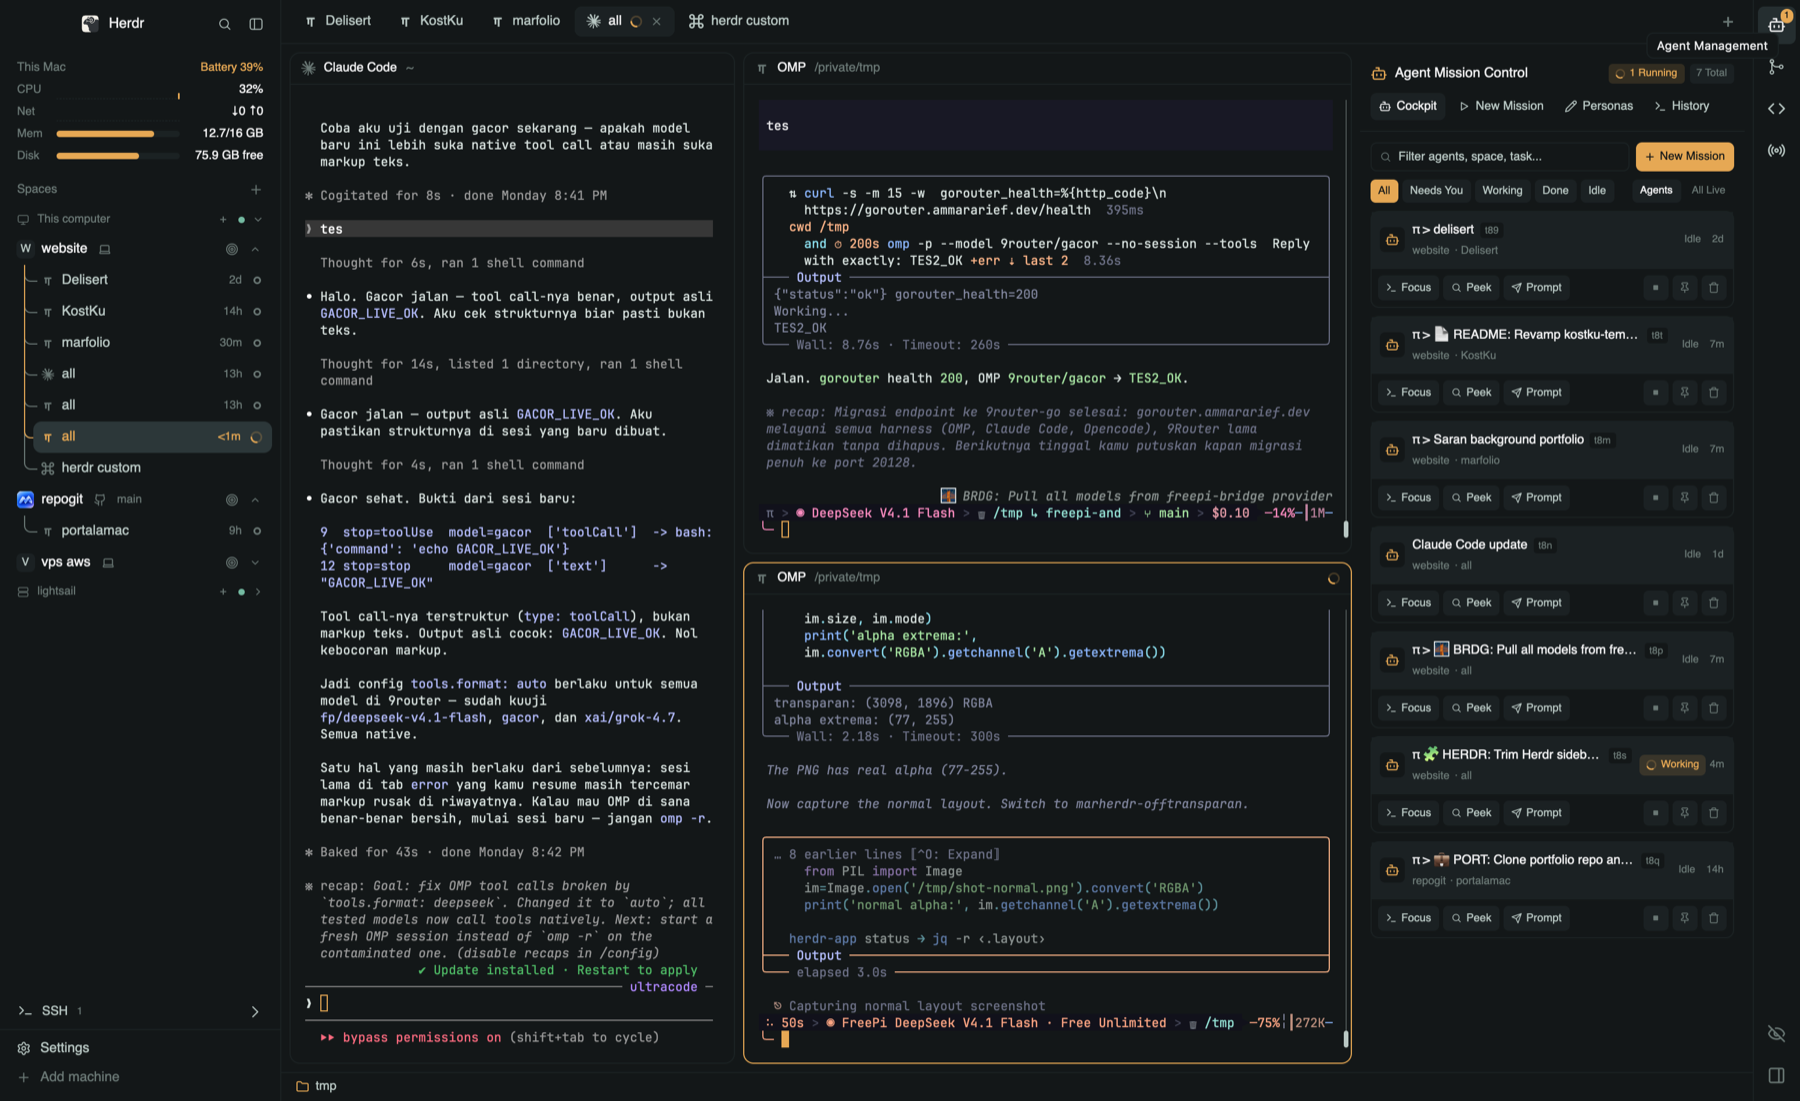
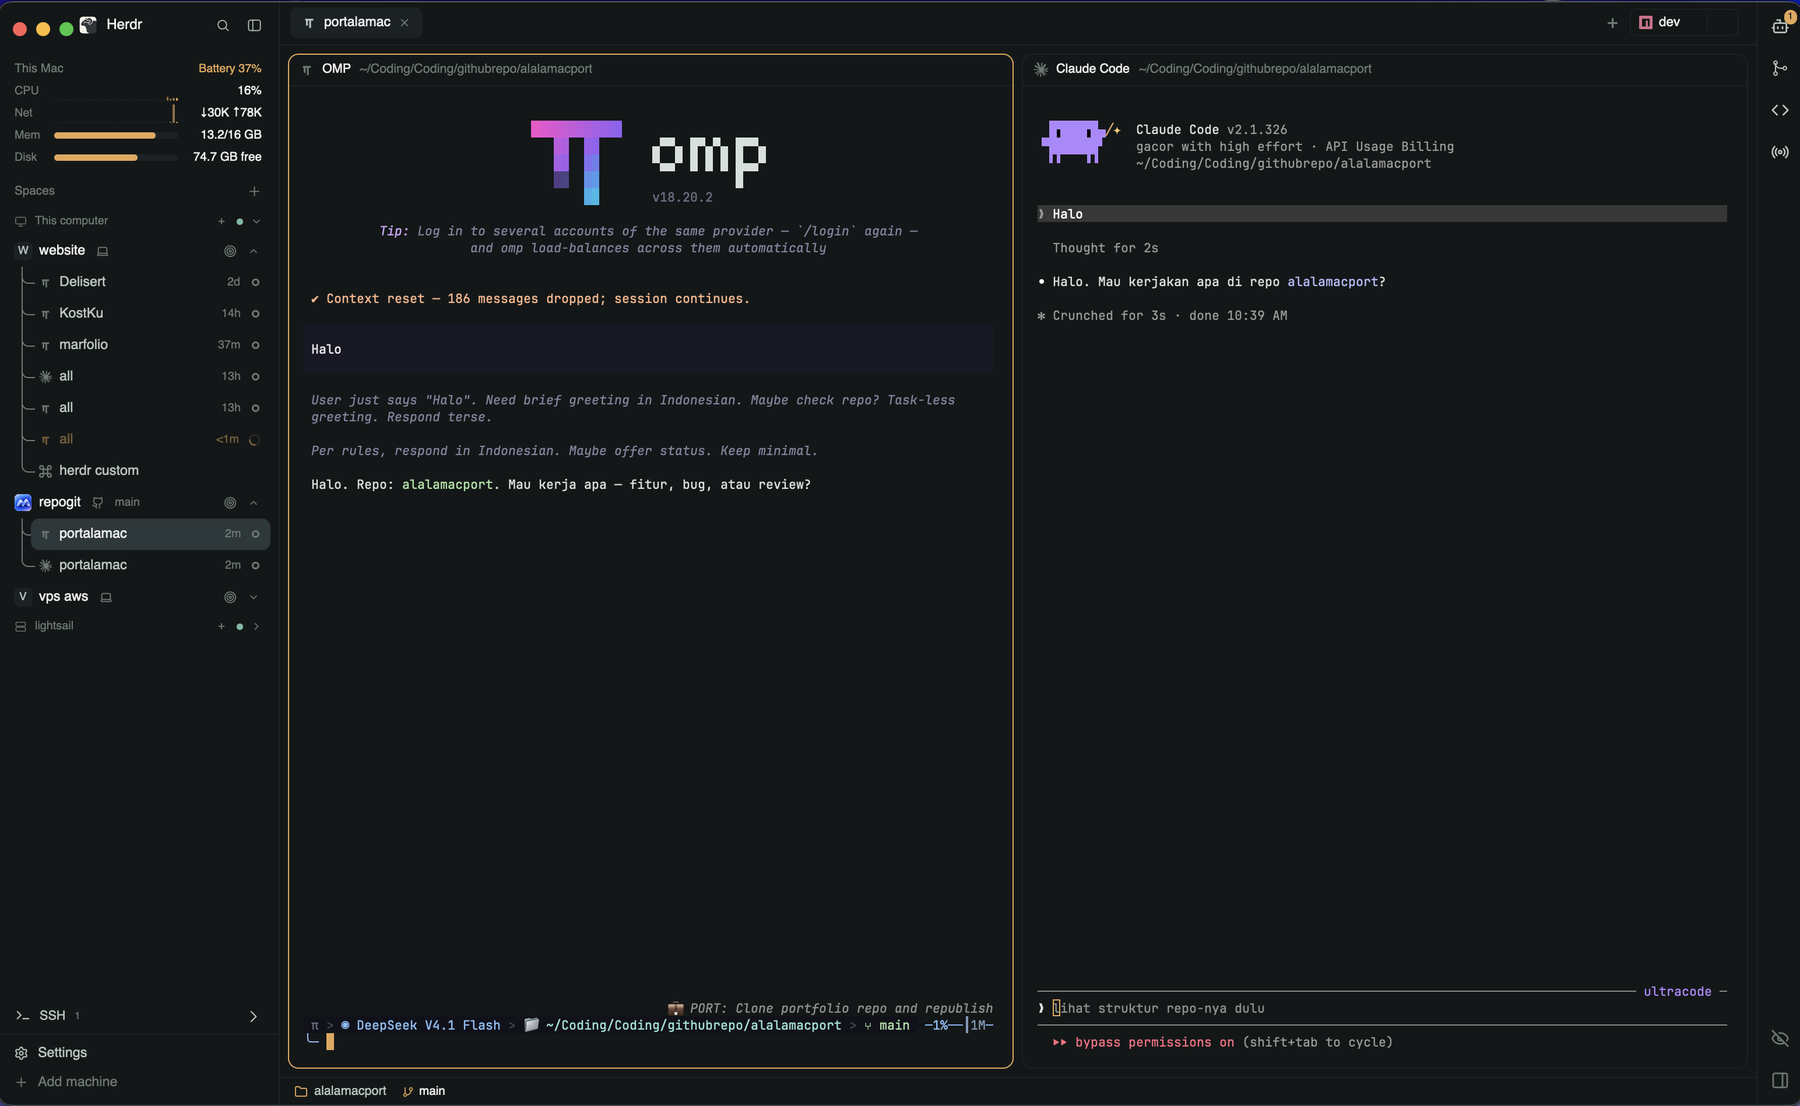
docs: real desktop screenshot for the solid variant
- Replace the app-only frame so both variants show the same desktop side by side

diff --git a/README.md b/README.md
@@ -23,8 +23,8 @@ opacity differs, so switching does not reshuffle anything.
 
 ![Marherdr solid](docs/normal.png)
 
-*marherdr-offtransparan.* Same tree, solid window: every pixel opaque, so text sits on a flat
-background and screen sharing shows what you see.
+*marherdr-offtransparan* — the same desktop, the same panes, the window now fully opaque. Text sits on
+a flat background and screen sharing shows exactly what you see.
 
 ## The toggle
 
